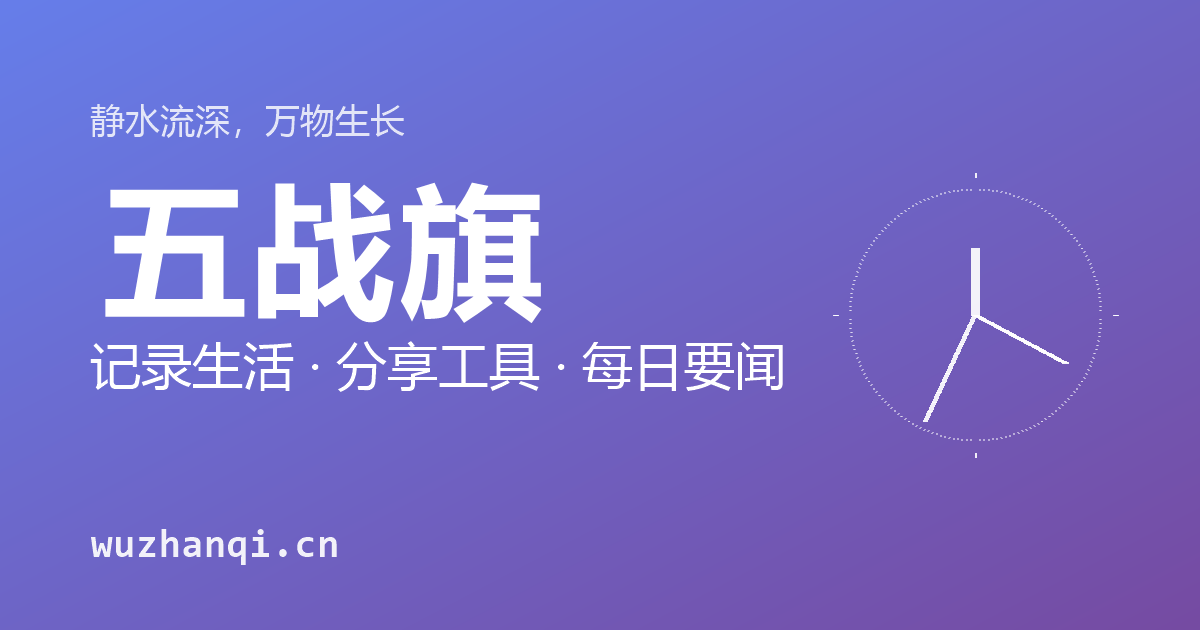
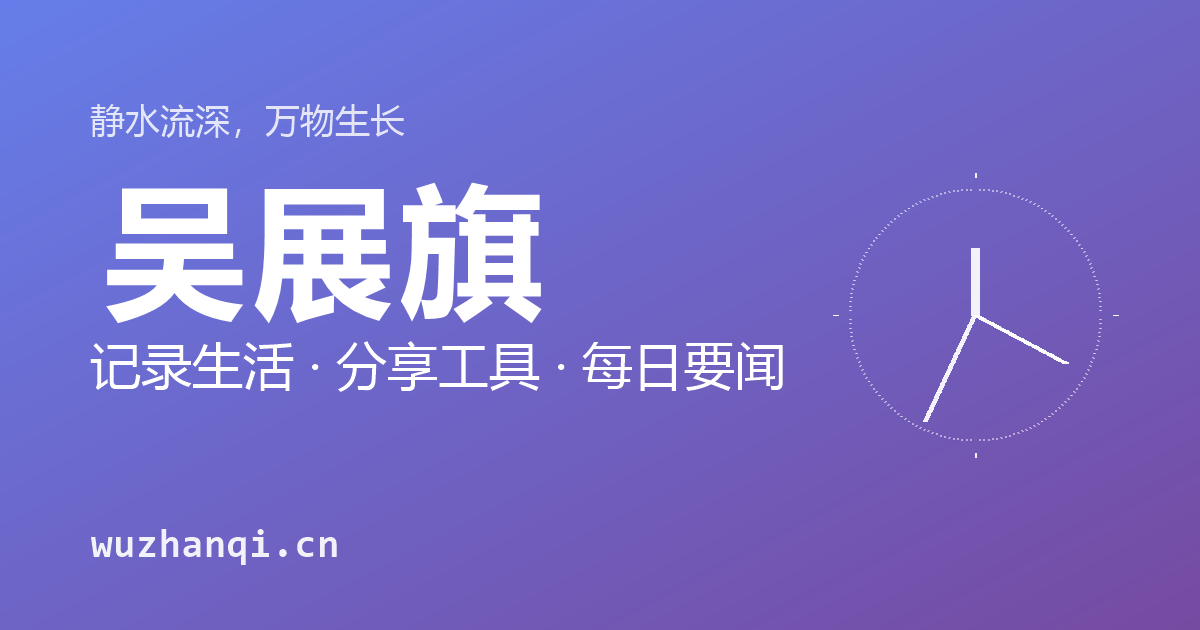
品牌名更正：五战旗 → 吴展旗，并移除首页展示的品牌名
站点品牌名此前误写为「五战旗」，正确写法是域名 wuzhanqi.cn 对应的
「吴展旗」。

- 11 个 HTML 与 manifest.json 共 33 处品牌名全部更正
- 首页 h1 原先展示「五战旗 wuzhanqi.cn」，改为只显示 wuzhanqi.cn
  （保留 h1 标签供 SEO，页面上不再出现品牌名）
- favicon / apple-touch-icon 内部图形由「五」字三横线改为字母 W
- og.png 分享卡片主图重新生成，标题改为「吴展旗」

Changed region(s): [[0.0925, 0.2714, 0.3392, 0.5127]]

diff --git a/index.html b/index.html
@@ -3,13 +3,13 @@
 <head>
     <meta charset="UTF-8">
     <meta name="viewport" content="width=device-width, initial-scale=1.0, viewport-fit=cover">
-        <title>五战旗 · 静水流深的小工具站 | 单位换算 · 每日要闻</title>
-    <meta name="description" content="五战旗 wuzhanqi.cn —— 一个安静的数字角落。收录单位换算器、每日要闻摘要、实用小工具，也有全球时钟与留言板。每天 21:30 更新要闻。">
+        <title>吴展旗 · 静水流深的小工具站 | 单位换算 · 每日要闻</title>
+    <meta name="description" content="吴展旗 wuzhanqi.cn —— 一个安静的数字角落。收录单位换算器、每日要闻摘要、实用小工具，也有全球时钟与留言板。每天 21:30 更新要闻。">
     <link rel="canonical" href="https://wuzhanqi.cn/">
 
     <meta property="og:type" content="website">
-    <meta property="og:site_name" content="五战旗">
-    <meta property="og:title" content="五战旗 · 静水流深的小工具站">
+    <meta property="og:site_name" content="吴展旗">
+    <meta property="og:title" content="吴展旗 · 静水流深的小工具站">
     <meta property="og:description" content="记录生活 · 分享工具 · 每日要闻。安静的数字角落。">
     <meta property="og:url" content="https://wuzhanqi.cn/">
     <meta property="og:image" content="https://wuzhanqi.cn/og.png">
@@ -18,7 +18,7 @@
     <meta property="og:locale" content="zh_CN">
 
     <meta name="twitter:card" content="summary_large_image">
-    <meta name="twitter:title" content="五战旗 · 静水流深的小工具站">
+    <meta name="twitter:title" content="吴展旗 · 静水流深的小工具站">
     <meta name="twitter:description" content="记录生活 · 分享工具 · 每日要闻。安静的数字角落。">
     <meta name="twitter:image" content="https://wuzhanqi.cn/og.png">
 
@@ -30,7 +30,7 @@
     {
       "@context": "https://schema.org",
       "@type": "WebSite",
-      "name": "五战旗",
+      "name": "吴展旗",
       "alternateName": "wuzhanqi.cn",
       "url": "https://wuzhanqi.cn",
       "description": "静水流深的小工具站：单位换算、每日要闻、实用小工具",
@@ -659,7 +659,7 @@
     <div class="main-wrapper">
         <div class="header">
             
-            <h1 class="domain">五战旗 <span>wuzhanqi.cn</span></h1>
+            <h1 class="domain">wuzhanqi.cn</h1>
             <p class="tagline">静水流深，万物生长。这里是一片安静的数字角落 —— 记录生活、分享工具、每日要闻。</p>
         </div>
         

diff --git a/video.html b/video.html
@@ -3,13 +3,13 @@
 <head>
     <meta charset="UTF-8">
     <meta name="viewport" content="width=device-width, initial-scale=1.0, viewport-fit=cover">
-        <title>视频 - 收藏与推荐 | 五战旗</title>
-    <meta name="description" content="五战旗的视频栏目，收录值得一看的短片与影像内容。">
+        <title>视频 - 收藏与推荐 | 吴展旗</title>
+    <meta name="description" content="吴展旗的视频栏目，收录值得一看的短片与影像内容。">
     <link rel="canonical" href="https://wuzhanqi.cn/video.html">
 
     <meta property="og:type" content="website">
-    <meta property="og:site_name" content="五战旗">
-    <meta property="og:title" content="视频 - 收藏与推荐 | 五战旗">
+    <meta property="og:site_name" content="吴展旗">
+    <meta property="og:title" content="视频 - 收藏与推荐 | 吴展旗">
     <meta property="og:description" content="值得一看的短片与影像内容。">
     <meta property="og:url" content="https://wuzhanqi.cn/video.html">
     <meta property="og:image" content="https://wuzhanqi.cn/og.png">
@@ -18,7 +18,7 @@
     <meta property="og:locale" content="zh_CN">
 
     <meta name="twitter:card" content="summary_large_image">
-    <meta name="twitter:title" content="视频 - 收藏与推荐 | 五战旗">
+    <meta name="twitter:title" content="视频 - 收藏与推荐 | 吴展旗">
     <meta name="twitter:description" content="值得一看的短片与影像内容。">
     <meta name="twitter:image" content="https://wuzhanqi.cn/og.png">
 

diff --git a/links.html b/links.html
@@ -3,13 +3,13 @@
 <head>
     <meta charset="UTF-8">
     <meta name="viewport" content="width=device-width, initial-scale=1.0, viewport-fit=cover">
-        <title>常用链接收藏 | 五战旗</title>
-    <meta name="description" content="五战旗收藏的常用网址，快速访问常用工具与站点。">
+        <title>常用链接收藏 | 吴展旗</title>
+    <meta name="description" content="吴展旗收藏的常用网址，快速访问常用工具与站点。">
     <link rel="canonical" href="https://wuzhanqi.cn/links.html">
 
     <meta property="og:type" content="website">
-    <meta property="og:site_name" content="五战旗">
-    <meta property="og:title" content="常用链接收藏 | 五战旗">
+    <meta property="og:site_name" content="吴展旗">
+    <meta property="og:title" content="常用链接收藏 | 吴展旗">
     <meta property="og:description" content="快速访问常用工具与站点。">
     <meta property="og:url" content="https://wuzhanqi.cn/links.html">
     <meta property="og:image" content="https://wuzhanqi.cn/og.png">
@@ -18,7 +18,7 @@
     <meta property="og:locale" content="zh_CN">
 
     <meta name="twitter:card" content="summary_large_image">
-    <meta name="twitter:title" content="常用链接收藏 | 五战旗">
+    <meta name="twitter:title" content="常用链接收藏 | 吴展旗">
     <meta name="twitter:description" content="快速访问常用工具与站点。">
     <meta name="twitter:image" content="https://wuzhanqi.cn/og.png">
 

diff --git a/calendar.html b/calendar.html
@@ -3,12 +3,12 @@
 <head>
     <meta charset="UTF-8">
     <meta name="viewport" content="width=device-width, initial-scale=1.0">
-        <title>新闻日历 · 按月份回看每日要闻 | 五战旗</title>
-    <meta name="description" content="五战旗新闻日历，按月份浏览历史要闻，回看每天的世界要闻与义乌本地消息摘要。">
+        <title>新闻日历 · 按月份回看每日要闻 | 吴展旗</title>
+    <meta name="description" content="吴展旗新闻日历，按月份浏览历史要闻，回看每天的世界要闻与义乌本地消息摘要。">
     <link rel="canonical" href="https://wuzhanqi.cn/calendar.html">
 
     <meta property="og:type" content="website">
-    <meta property="og:site_name" content="五战旗">
+    <meta property="og:site_name" content="吴展旗">
     <meta property="og:title" content="新闻日历 · 按月份回看每日要闻">
     <meta property="og:description" content="按月份浏览历史要闻摘要。">
     <meta property="og:url" content="https://wuzhanqi.cn/calendar.html">

diff --git a/converter.html b/converter.html
@@ -3,12 +3,12 @@
 <head>
 <meta charset="UTF-8">
 <meta name="viewport" content="width=device-width, initial-scale=1.0">
-    <title>在线单位换算器 - 长度重量温度面积体积速度 | 五战旗</title>
+    <title>在线单位换算器 - 长度重量温度面积体积速度 | 吴展旗</title>
     <meta name="description" content="免费在线单位换算器，支持长度、重量、温度、面积、体积、速度等常用单位换算，即查即用无需注册，中文界面。">
     <link rel="canonical" href="https://wuzhanqi.cn/converter.html">
 
     <meta property="og:type" content="website">
-    <meta property="og:site_name" content="五战旗">
+    <meta property="og:site_name" content="吴展旗">
     <meta property="og:title" content="在线单位换算器 - 支持常用单位换算">
     <meta property="og:description" content="长度、重量、温度、面积、体积、速度，即查即用。">
     <meta property="og:url" content="https://wuzhanqi.cn/converter.html">

diff --git a/news.html b/news.html
@@ -3,12 +3,12 @@
 <head>
     <meta charset="UTF-8">
     <meta name="viewport" content="width=device-width, initial-scale=1.0">
-        <title>每日要闻 · 世界要闻与义乌本地 | 五战旗</title>
+        <title>每日要闻 · 世界要闻与义乌本地 | 吴展旗</title>
     <meta name="description" content="每天 21:30 更新，AI 摘要的世界要闻、义乌本地消息与每日一段，三分钟了解今天发生了什么。">
     <link rel="canonical" href="https://wuzhanqi.cn/news.html">
 
     <meta property="og:type" content="website">
-    <meta property="og:site_name" content="五战旗">
+    <meta property="og:site_name" content="吴展旗">
     <meta property="og:title" content="每日要闻 · 世界要闻与义乌本地">
     <meta property="og:description" content="每天 21:30 更新，AI 摘要的世界要闻与义乌本地消息。">
     <meta property="og:url" content="https://wuzhanqi.cn/news.html">

diff --git a/download.html b/download.html
@@ -3,12 +3,12 @@
 <head>
     <meta charset="UTF-8">
     <meta name="viewport" content="width=device-width, initial-scale=1.0, viewport-fit=cover">
-        <title>下载进度追踪 - 2021中级经济师 | 五战旗</title>
+        <title>下载进度追踪 - 2021中级经济师 | 吴展旗</title>
     <meta name="description" content="2021 中级经济师资料百度网盘下载进度实时追踪，状态自动更新。">
     <link rel="canonical" href="https://wuzhanqi.cn/download.html">
 
     <meta property="og:type" content="website">
-    <meta property="og:site_name" content="五战旗">
+    <meta property="og:site_name" content="吴展旗">
     <meta property="og:title" content="下载进度追踪 - 2021中级经济师">
     <meta property="og:description" content="百度网盘文件下载进度实时追踪，状态自动更新。">
     <meta property="og:url" content="https://wuzhanqi.cn/download.html">

diff --git a/coze.html b/coze.html
@@ -3,12 +3,12 @@
 <head>
     <meta charset="UTF-8">
     <meta name="viewport" content="width=device-width, initial-scale=1.0, viewport-fit=cover">
-        <title>零门槛搭建 AI 助手 - 扣子 Coze | 五战旗</title>
+        <title>零门槛搭建 AI 助手 - 扣子 Coze | 吴展旗</title>
     <meta name="description" content="零门槛搭建 AI 助手 - Chatbot、工作流、RAG 都能搞。扣子 Coze 平台体验入口。">
     <link rel="canonical" href="https://wuzhanqi.cn/coze.html">
 
     <meta property="og:type" content="website">
-    <meta property="og:site_name" content="五战旗">
+    <meta property="og:site_name" content="吴展旗">
     <meta property="og:title" content="零门槛搭建 AI 助手 - 扣子 Coze">
     <meta property="og:description" content="Chatbot、工作流、RAG 都能搞。">
     <meta property="og:url" content="https://wuzhanqi.cn/coze.html">

diff --git a/airmb.html b/airmb.html
@@ -1,12 +1,12 @@
 <!DOCTYPE html>
 <html>
 <head>
-        <title>第一套人民币图鉴 - 第四套人民币收藏鉴赏 | 五战旗</title>
+        <title>第一套人民币图鉴 - 第四套人民币收藏鉴赏 | 吴展旗</title>
     <meta name="description" content="第一套人民币全套图片图鉴，按版别与面值浏览，收藏鉴赏参考。">
     <link rel="canonical" href="https://wuzhanqi.cn/airmb.html">
 
     <meta property="og:type" content="website">
-    <meta property="og:site_name" content="五战旗">
+    <meta property="og:site_name" content="吴展旗">
     <meta property="og:title" content="第一套人民币图鉴">
     <meta property="og:description" content="按版别与面值浏览第一套人民币全套图片。">
     <meta property="og:url" content="https://wuzhanqi.cn/airmb.html">

diff --git a/qclaw.html b/qclaw.html
@@ -8,7 +8,7 @@
     <link rel="canonical" href="https://wuzhanqi.cn/qclaw.html">
 
     <meta property="og:type" content="website">
-    <meta property="og:site_name" content="五战旗">
+    <meta property="og:site_name" content="吴展旗">
     <meta property="og:title" content="QClaw - 你的智能 AI 助手">
     <meta property="og:description" content="让工作更高效，生活更轻松。邀请好友注册赢积分。">
     <meta property="og:url" content="https://wuzhanqi.cn/qclaw.html">

diff --git a/rename_brand.py b/rename_brand.py
@@ -1,0 +1,57 @@
+# -*- coding: utf-8 -*-
+"""
+把站点品牌名从误写的「五战旗」改为「吴展旗」（域名 wuzhanqi.cn 的正确写法），
+并移除首页上直接展示品牌名的 h1 文字（保留 h1 标签本身供 SEO 使用）。
+"""
+import io, os, re, glob
+
+REPO = os.path.dirname(os.path.abspath(__file__))
+OLD = '五战旗'
+NEW = '吴展旗'
+
+# 需要改名的文件（文本中出现 OLD 的全部替换）
+targets = []
+for ext in ('html', 'json'):
+    targets += glob.glob(os.path.join(REPO, '**', '*.' + ext), recursive=True)
+targets = [t for t in targets if not t.endswith('news.json')]  # 新闻数据不含品牌名
+
+changed = []
+for path in sorted(set(targets)):
+    with io.open(path, encoding='utf-8') as f:
+        src = f.read()
+    if OLD not in src:
+        continue
+
+    # 首页 h1：去掉可见的品牌名，只保留域名（h1 标签保留）
+    src = src.replace(
+        '<h1 class="domain">%s <span>wuzhanqi.cn</span></h1>' % OLD,
+        '<h1 class="domain">wuzhanqi.cn</h1>')
+
+    # 其余一律改名
+    src = src.replace(OLD, NEW)
+
+    with io.open(path, 'w', encoding='utf-8', newline='') as f:
+        f.write(src)
+    changed.append(os.path.basename(path))
+
+print('=' * 58)
+print('已改名 %s -> %s' % (OLD, NEW))
+for c in changed:
+    print('  ' + c)
+print('=' * 58)
+print('共 %d 个文件' % len(changed))
+
+# 校验：不应再有残留
+leftover = 0
+for ext in ('html', 'json'):
+    for p in glob.glob(os.path.join(REPO, '**', '*.' + ext), recursive=True):
+        if p.endswith('news.json'):
+            continue
+        with io.open(p, encoding='utf-8') as f:
+            leftover += f.read().count(OLD)
+print('残留 %s : %d 处' % (OLD, leftover))
+
+# 校验首页 h1
+idx = io.open(os.path.join(REPO, 'index.html'), encoding='utf-8').read()
+m = re.search(r'<h1[^>]*>(.*?)</h1>', idx, re.S)
+print('首页 h1 内容: %r' % (m.group(1) if m else '(未找到)'))
